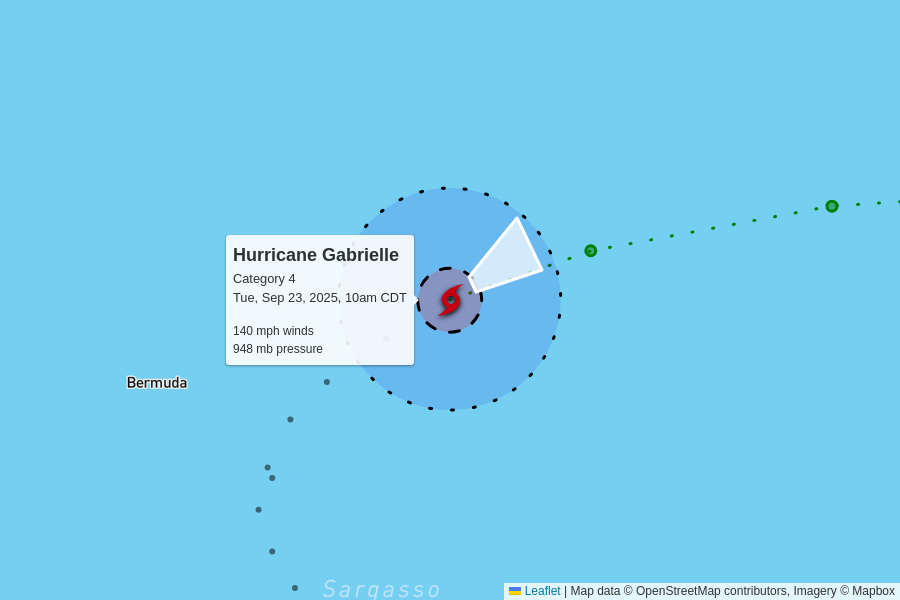
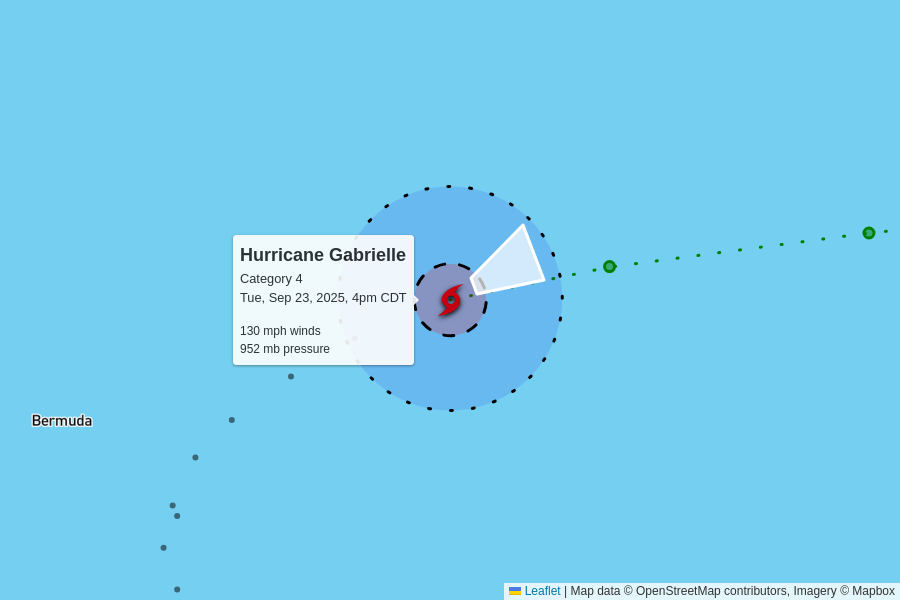
automatic update

diff --git a/docs/index.html b/docs/index.html
@@ -102,7 +102,7 @@
         <td colspan="6" class="storm category-4" >
           <h2>
             Hurricane Gabrielle - Category 4
-            <p class="updated">last updated <span data-time>2025-09-23T15:00:00.000Z</span></p>
+            <p class="updated">last updated <span data-time>2025-09-23T21:00:00.000Z</span></p>
           </h2>
         </td>
       </tr>
@@ -117,12 +117,12 @@
       </tr>
       <tr>
         <td class="spacer"></td>
-        <td>140 mph<br>0 mph since last update</td>
-        <td>948 mb<br>-1 mb since last update</td>
+        <td>130 mph<br>-10 mph since last update</td>
+        <td>952 mb<br>+4 mb since last update</td>
         <td>
-          20 mph to the east-northeast
+          21 mph to the east-northeast
           <br/>
-          <span style="display: inline-block; font-size: 1.5em; transform: rotate(60deg);">↑</span>
+          <span style="display: inline-block; font-size: 1.5em; transform: rotate(65deg);">↑</span>
         </td>
         <td><a href="https://raw.githubusercontent.com/mgwalker/atlantic-hurricanes/main/data/csv/AL072025.csv">AL072025.csv</a></td>
         <td><a href="https://www.nhc.noaa.gov/archive/2025/GABRIELLE.shtml?">NHC advisories</a></td>
